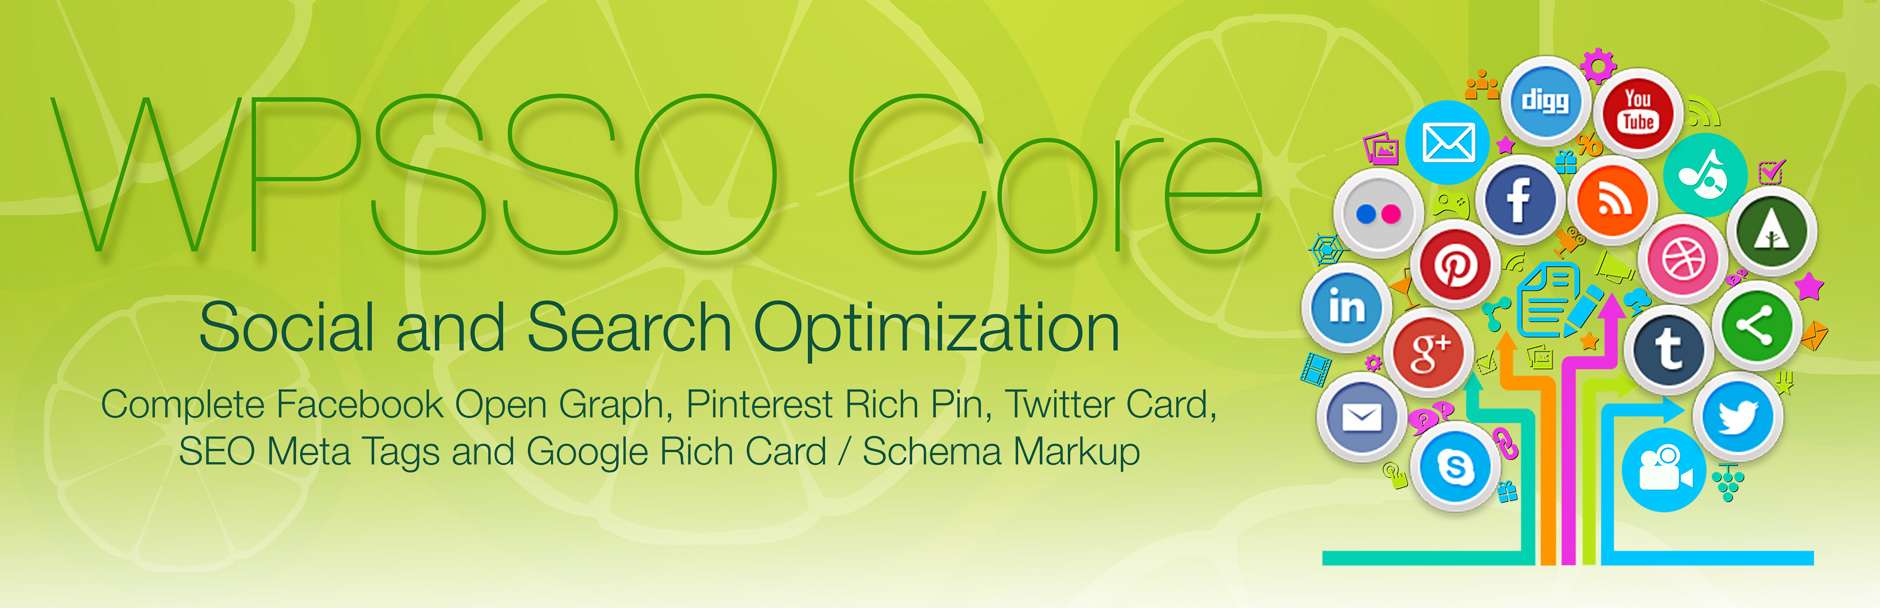
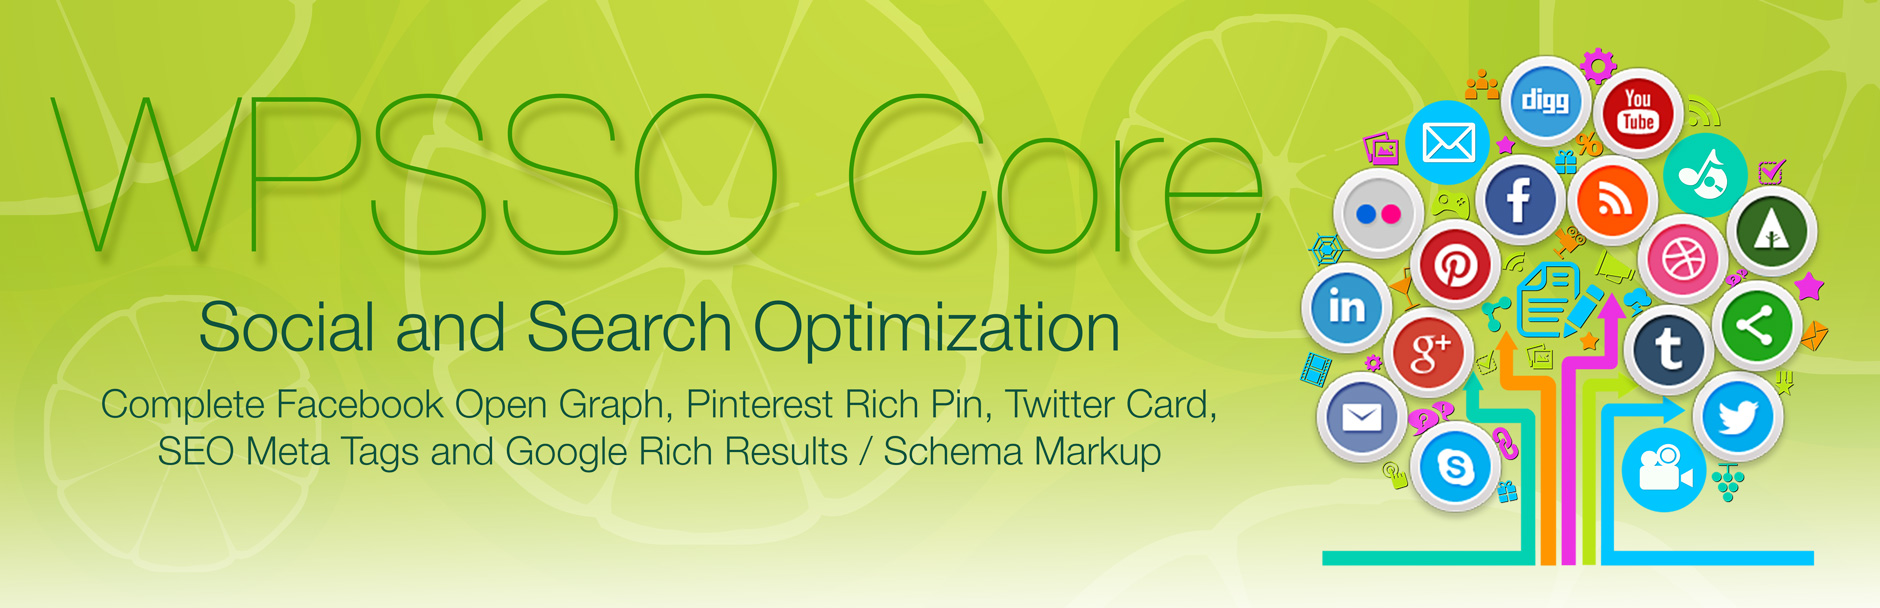
non-essential support files (documentation and assets)

Changed region(s): [[0.0926, 0.7188, 0.617, 0.7812]]

diff --git a/index.html b/index.html
@@ -25,7 +25,7 @@
         </ul>
       </header>
       <section>
-<h1>WPSSO Core</h1><h3>Complete Open Graph, Rich Pin, Twitter Card, SEO Meta Tags and Rich Results + Schema Markup</h3>
+<h1>WPSSO Core</h1><h3>Complete Open Graph, Rich Pin, Twitter Card, SEO Meta Tags and Rich Results / Schema Markup</h3>
 
 <table>
 <tr><th align="right" valign="top" nowrap>Plugin Name</th><td>WPSSO Core [Main Plugin]</td></tr>
